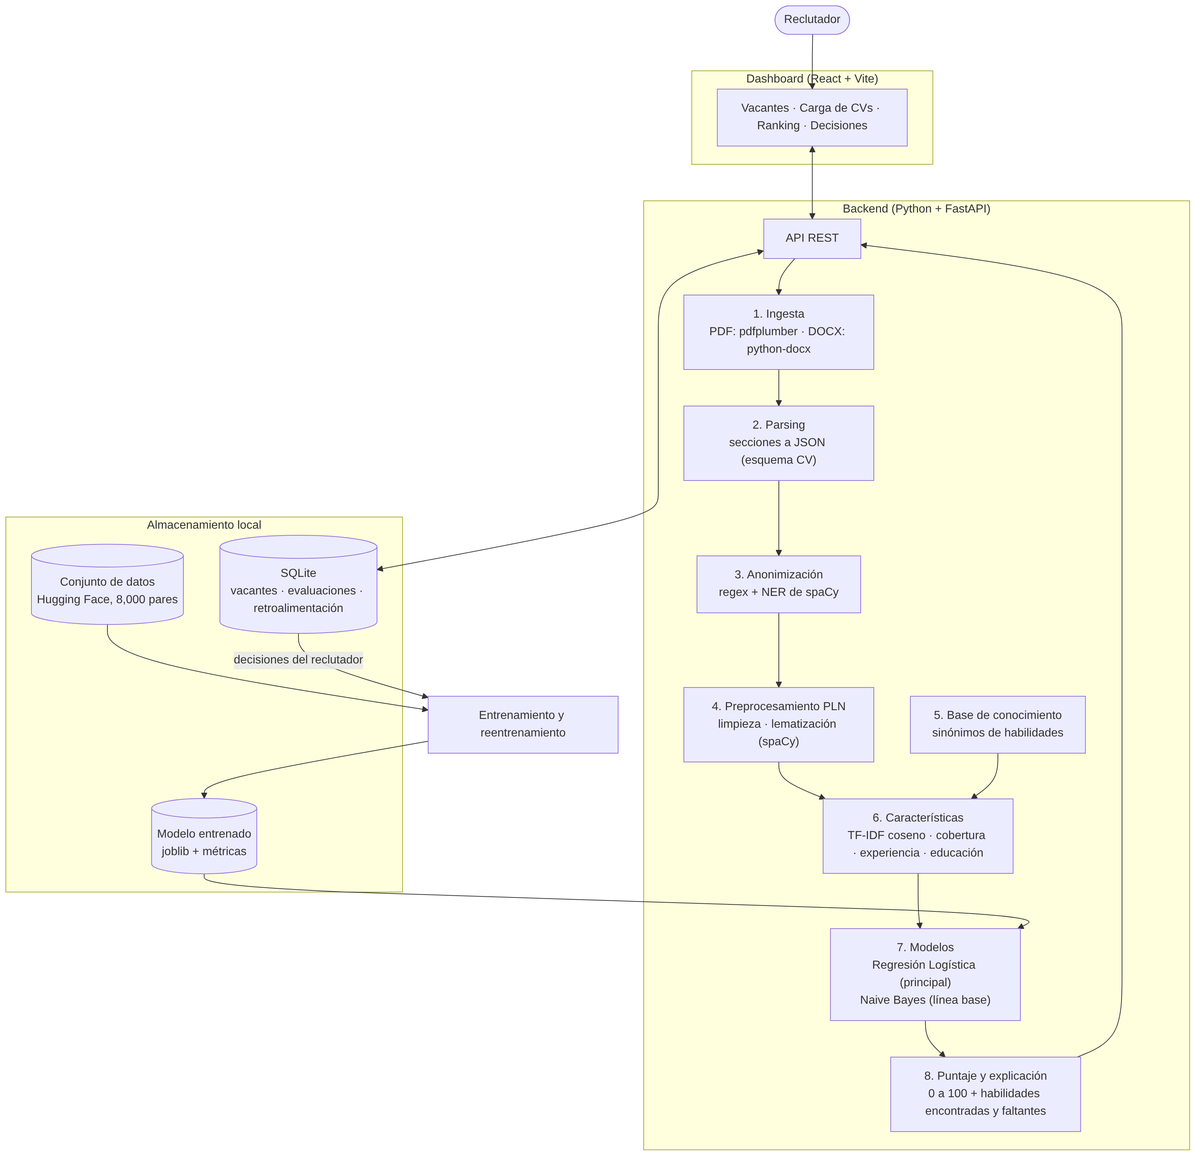
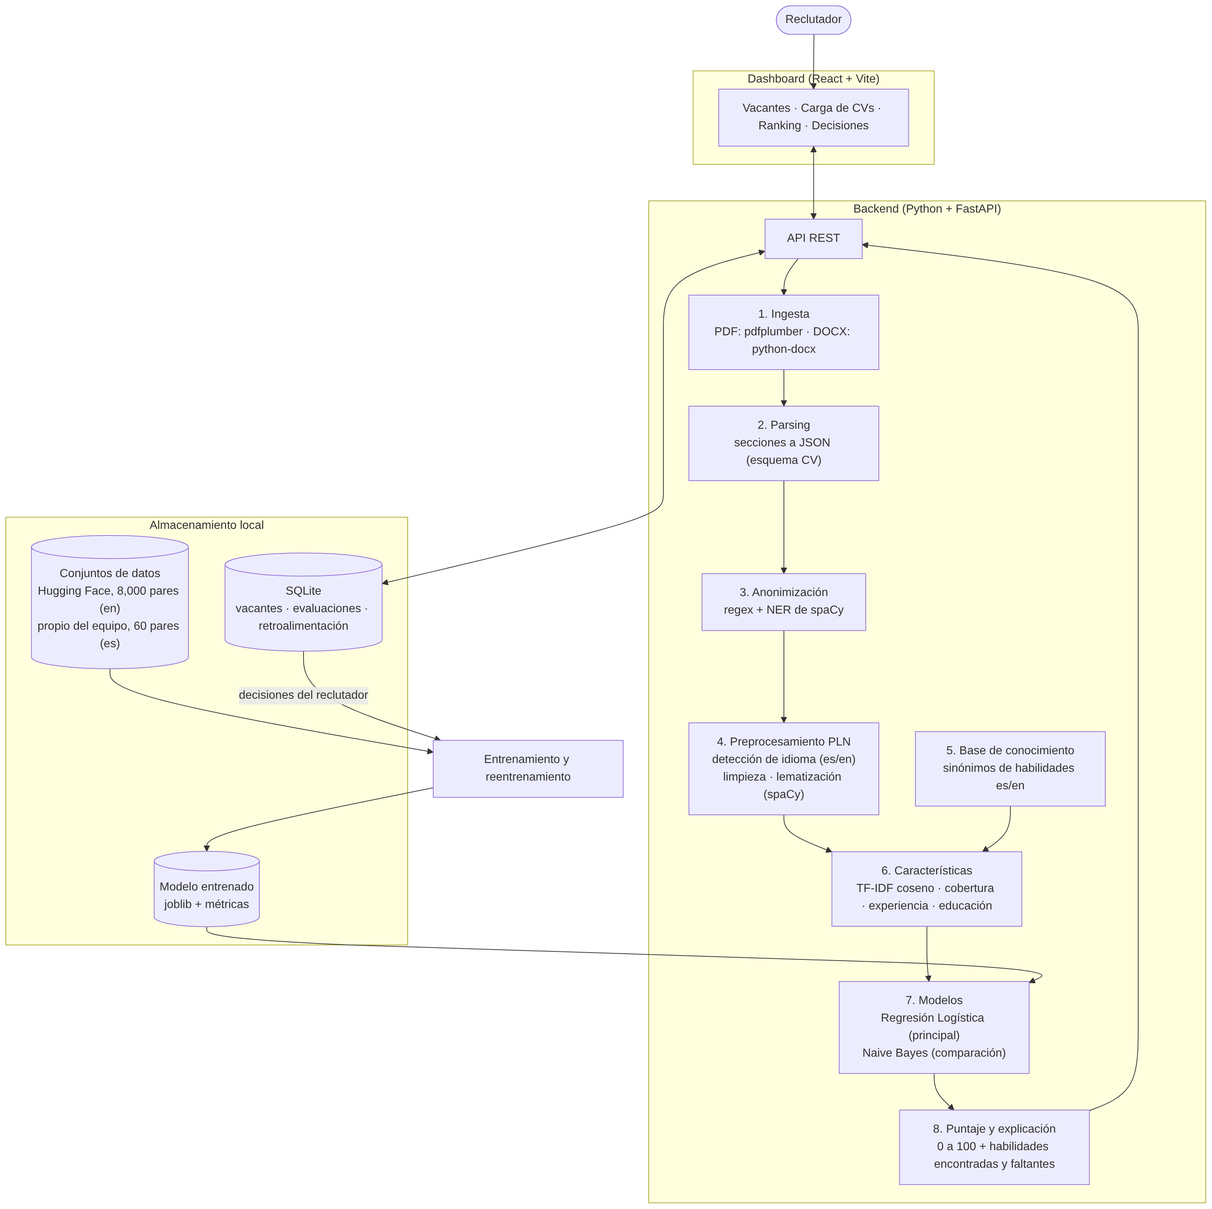
Fase 1: enfoque en español con soporte para inglés
El sistema se enfoca en CVs y vacantes en español y también acepta inglés.
Como el único conjunto de datos etiquetado público está en inglés, los modelos
usan solo características que no dependen del idioma (decisión D7) y el
desempeño en español se mide con un conjunto propio del equipo.

Agrega la detección de idioma (RF-14), la base de conocimiento bilingüe, el
modelo de spaCy en español y una prueba de su lematización. Documenta que el
reconocimiento de entidades del modelo pequeño en español no es confiable para
anonimizar.

diff --git a/tests/test_smoke.py b/tests/test_smoke.py
@@ -11,3 +11,10 @@ def test_spacy_english_model_loads():
     nlp = spacy.load("en_core_web_sm")
     doc = nlp("Jane Doe worked at Google using advanced Excel.")
     assert any(ent.label_ == "PERSON" for ent in doc.ents)
+
+
+def test_spacy_spanish_model_lemmatizes():
+    nlp = spacy.load("es_core_news_sm")
+    lemmas = [token.lemma_ for token in nlp("Trabajó cinco años como analista de datos.")]
+    assert "trabajar" in lemmas
+    assert "dato" in lemmas

diff --git a/docs/requisitos.md b/docs/requisitos.md
@@ -11,9 +11,11 @@ de una vacante, extrae su información, la compara con los requisitos del puesto
 ranking de candidatos con un puntaje de idoneidad de 0 a 100 y la explicación de ese puntaje.
 La decisión final de contratación siempre es del reclutador: el sistema prioriza, no descarta.
 
-Idioma: la interfaz y la documentación están en español. Los currículums y vacantes que el
-sistema analiza están en **inglés**, porque los datos etiquetados públicos disponibles para
-entrenar los modelos están en inglés (ver sección 6).
+Idioma: el sistema está enfocado en **español**. La interfaz, la documentación, los
+currículums y las vacantes son en español como caso principal, y los documentos en **inglés**
+también se aceptan. Como los únicos datos etiquetados públicos disponibles están en inglés, los
+modelos se entrenan con características que no dependen del idioma (sección 5), y el
+desempeño en español se mide con un conjunto propio del equipo (sección 6).
 
 ## 2. Usuarios y flujo de uso
 
@@ -42,13 +44,14 @@ Usuario principal: reclutador de Recursos Humanos.
 | RF-04 | Informar por archivo los errores de carga: formato no soportado, archivo dañado o PDF sin texto extraíble (por ejemplo, escaneado). Un error no detiene el resto del lote. | 3 | Alta |
 | RF-05 | Anonimizar cada CV antes de evaluarlo: eliminar nombre, correo, teléfono, dirección y URLs personales. | 2-4 | Alta |
 | RF-06 | Preprocesar el texto con PLN: limpieza, normalización, tokenización, eliminación de palabras vacías y lematización. | 4 | Alta |
-| RF-07 | Normalizar habilidades con una base de conocimiento de sinónimos y equivalencias (por ejemplo, "spreadsheets" y "advanced excel" se reconocen como la habilidad `excel`). | 4-6 | Alta |
+| RF-07 | Normalizar habilidades con una base de conocimiento de sinónimos y equivalencias en español e inglés (por ejemplo, "manejo de hojas de cálculo", "Excel avanzado" y "spreadsheets" se reconocen como la habilidad `excel`). | 4-6 | Alta |
 | RF-08 | Calcular para cada par CV-vacante las características de la sección 5 y un puntaje de idoneidad de 0 a 100. | 5-6 | Alta |
 | RF-09 | Explicar cada puntaje: habilidades requeridas encontradas y faltantes, años de experiencia detectados y nivel educativo detectado. | 6-7 | Alta |
 | RF-10 | Mostrar el ranking de candidatos por vacante, con ordenamiento, búsqueda y filtros por rango de puntaje, habilidades y experiencia. | 7 | Alta |
 | RF-11 | Registrar la decisión del reclutador por candidato: Apto, Posible o No apto. | 7 | Media |
 | RF-12 | Reentrenar el modelo con el conjunto base más la retroalimentación acumulada, bajo demanda, y conservar la versión anterior si la nueva tiene peores métricas. | 8 | Media |
 | RF-13 | Mostrar las métricas del modelo vigente: accuracy, precision, recall y F1. | 7-8 | Media |
+| RF-14 | Detectar el idioma de cada CV y vacante (español o inglés) y procesarlo con el modelo de PLN correspondiente. Un documento en otro idioma se rechaza con un mensaje claro. | 4 | Alta |
 
 ## 4. Requerimientos no funcionales
 
@@ -66,21 +69,24 @@ Usuario principal: reclutador de Recursos Humanos.
 ## 5. Criterios de evaluación de perfiles
 
 Cada CV se evalúa contra una vacante con cuatro características. Todas se calculan después de
-anonimizar el CV.
+anonimizar el CV y **no dependen del idioma**: cada una compara el CV con su propia vacante, y
+el resultado es un número que significa lo mismo en español o en inglés. Por eso un modelo
+entrenado con pares en inglés puede evaluar pares en español.
 
 | Característica | Cálculo | Rango |
 |---|---|---|
-| `text_similarity` | Similitud coseno entre los vectores TF-IDF del CV y de la vacante (texto preprocesado y lematizado). | 0 a 1 |
+| `text_similarity` | Similitud coseno entre los vectores TF-IDF del CV y de la vacante, con el texto preprocesado y lematizado en su idioma. | 0 a 1 |
 | `skill_coverage` | Habilidades de la vacante presentes en el CV, normalizadas con la base de conocimiento. Las deseables pesan la mitad: (requeridas encontradas + 0.5 × deseables encontradas) / (requeridas + 0.5 × deseables). Si la vacante no lista habilidades, vale 1. | 0 a 1 |
-| `experience_fit` | Años de experiencia detectados en el CV entre los años mínimos requeridos, con tope en 1. Si la vacante no indica años, vale 1. | 0 a 1 |
-| `education_fit` | 1 si el nivel educativo detectado alcanza el mínimo requerido o si la vacante no pide uno, 0.5 si es un nivel inferior, 0 si no se detecta. Niveles: bachillerato, técnico, licenciatura, maestría, doctorado. | 0, 0.5 o 1 |
+| `experience_fit` | Años de experiencia detectados en el CV ("5 años", "5 years" o periodos como "2021-2024") entre los años mínimos requeridos, con tope en 1. Si la vacante no indica años, vale 1. | 0 a 1 |
+| `education_fit` | 1 si el nivel educativo detectado alcanza el mínimo requerido o si la vacante no pide uno, 0.5 si es un nivel inferior, 0 si no se detecta. Niveles: bachillerato, técnico, licenciatura, maestría, doctorado, con sus equivalentes en inglés (high school, associate, bachelor, master, PhD). | 0, 0.5 o 1 |
 
 **Clases.** Cada par CV-vacante pertenece a una de tres clases: `Good Fit`, `Potential Fit` o
 `No Fit` (las etiquetas del conjunto de datos). En la interfaz se muestran como Apto, Posible y
 No apto.
 
 **Puntaje de idoneidad.** El modelo de Regresión Logística estima la probabilidad de cada clase
-a partir de las características anteriores y de los vectores TF-IDF. El puntaje es:
+a partir de las cuatro características anteriores. No usa las palabras del texto como
+características directas, porque esas sí dependen del idioma. El puntaje es:
 
 ```
 puntaje = 100 × ( P(Good Fit) + 0.5 × P(Potential Fit) )
@@ -89,18 +95,18 @@ puntaje = 100 × ( P(Good Fit) + 0.5 × P(Potential Fit) )
 El ranking ordena por puntaje; en empate, por `skill_coverage`. La fórmula es la
 propuesta inicial y se revisa en la fase 5 con las métricas reales.
 
-**Modelos.** Naive Bayes multinomial sobre TF-IDF funciona como línea base. La Regresión
-Logística es el modelo principal. También se compara contra una línea base sin aprendizaje que
-solo usa `text_similarity`. El modelo principal se acepta si supera a ambas líneas base en F1
-macro sobre el conjunto de prueba; la meta numérica se fija en la fase 5 al medir las líneas
-base.
+**Modelos.** La Regresión Logística es el modelo principal y Naive Bayes (gaussiano, sobre las
+mismas características) es el modelo de comparación. Ambos se comparan contra una línea base sin
+aprendizaje que solo usa `text_similarity`. El modelo elegido debe superar a la línea base en F1
+macro; la meta numérica se fija en la fase 5 al medir las líneas base. Si en la fase 5 se
+necesitan más características, se agregan solo si tampoco dependen del idioma.
 
 ## 6. Datos
 
 | Uso | Fuente | Contenido |
 |---|---|---|
 | Entrenamiento y prueba | [cnamuangtoun/resume-job-description-fit](https://huggingface.co/datasets/cnamuangtoun/resume-job-description-fit) (Hugging Face) | 8,000 pares CV-vacante en inglés: 6,241 de entrenamiento y 1,759 de prueba. Etiquetas en el entrenamiento: No Fit 3,143, Potential Fit 1,556, Good Fit 1,542. |
-| Pruebas del parser | Currículums de muestra en PDF y DOCX creados por el equipo con datos ficticios | Se preparan en la fase 2. |
+| Evaluación en español | Conjunto propio: vacantes y CVs ficticios en español, en PDF y DOCX, etiquetados por el equipo como Apto, Posible o No apto | Propuesta: 4 vacantes con 15 CVs cada una (60 pares). Se prepara en la fase 2 y también sirve para probar el parser. |
 
 Limitaciones conocidas, que se documentan en el reporte:
 
@@ -108,20 +114,23 @@ Limitaciones conocidas, que se documentan en el reporte:
   etiquetas no está documentado. Se usa con fines académicos y se cita la fuente.
 - Las clases están desbalanceadas (la mitad son No Fit), por lo que se reporta F1 macro y no
   solo accuracy.
-- Los datos están en inglés; evaluar CVs en español queda fuera del alcance.
+- El entrenamiento es en inglés. El desempeño en español se mide solo con el conjunto propio
+  de 60 pares, que es pequeño; el reporte presenta ese resultado como indicativo, no como
+  definitivo.
 
 ## 7. Medidas de rendimiento del agente
 
 Tomadas de la actividad 2.1:
 
-- Accuracy, precision, recall y F1 (macro y por clase) sobre el conjunto de prueba.
+- Accuracy, precision, recall y F1 (macro y por clase), reportadas por separado para el
+  conjunto de prueba en inglés (1,759 pares) y el conjunto propio en español.
 - Tiempo de procesamiento por CV (RNF-03).
 - Satisfacción de los reclutadores, medida en las pruebas de usabilidad (RNF-07).
 
 ## 8. Fuera de alcance
 
 - Reconocimiento óptico de caracteres (OCR) para CVs escaneados: se reportan como error (RF-04).
-- Currículums en idiomas distintos al inglés.
+- Currículums en idiomas distintos al español y al inglés.
 - Cuentas de usuario, permisos y despliegue en la nube: el sistema se ejecuta localmente para
   la demostración.
 - Integración con sistemas de RH de terceros.
@@ -131,5 +140,7 @@ Tomadas de la actividad 2.1:
 | Riesgo | Mitigación |
 |---|---|
 | Las etiquetas del conjunto de datos no reflejan criterios reales de una empresa. | Se presenta como limitación; la retroalimentación del reclutador (RF-11, RF-12) adapta el modelo a criterios propios. |
+| Las características calculadas en español se distribuyen distinto que en inglés (por ejemplo, la similitud de textos), y el modelo entrenado en inglés pierde precisión. | Se mide con el conjunto propio en español; si la diferencia es grande, se ajustan las características o se reentrena con la retroalimentación en español (RF-12). |
+| El modelo pequeño de spaCy en español reconoce mal los nombres de personas (en una prueba marcó una empresa como persona). | La anonimización se basa en patrones (correo, teléfono, URLs) y en la estructura del CV (el nombre suele estar en el encabezado), con el reconocimiento de entidades solo como apoyo. Se mide en la fase 2. |
 | Los CVs tienen formatos muy variados y el parser no detecta todas las secciones. | Si no se detectan secciones, el CV completo se trata como un solo bloque y se evalúa igual. |
 | El equipo va atrasado respecto al cronograma original (fases 2 y 3 vencían en septiembre). | Se propone recuperar las fases 1 a 3 al regresar del periodo de exámenes de medio curso (pendiente de confirmar con el equipo); el reporte de avance 3.2 presenta el cronograma ajustado. |

diff --git a/docs/arquitectura.md b/docs/arquitectura.md
@@ -26,17 +26,17 @@ flowchart TD
         ING["1. Ingesta<br/>PDF: pdfplumber · DOCX: python-docx"]
         PAR["2. Parsing<br/>secciones a JSON (esquema CV)"]
         ANO["3. Anonimización<br/>regex + NER de spaCy"]
-        PLN["4. Preprocesamiento PLN<br/>limpieza · lematización (spaCy)"]
-        KB["5. Base de conocimiento<br/>sinónimos de habilidades"]
+        PLN["4. Preprocesamiento PLN<br/>detección de idioma (es/en)<br/>limpieza · lematización (spaCy)"]
+        KB["5. Base de conocimiento<br/>sinónimos de habilidades es/en"]
         FEAT["6. Características<br/>TF-IDF coseno · cobertura · experiencia · educación"]
-        ML["7. Modelos<br/>Regresión Logística (principal)<br/>Naive Bayes (línea base)"]
+        ML["7. Modelos<br/>Regresión Logística (principal)<br/>Naive Bayes (comparación)"]
         SC["8. Puntaje y explicación<br/>0 a 100 + habilidades encontradas y faltantes"]
     end
 
     subgraph ST["Almacenamiento local"]
         DB[("SQLite<br/>vacantes · evaluaciones · retroalimentación")]
         MOD[("Modelo entrenado<br/>joblib + métricas")]
-        DS[("Conjunto de datos<br/>Hugging Face, 8,000 pares")]
+        DS[("Conjuntos de datos<br/>Hugging Face, 8,000 pares (en)<br/>propio del equipo, 60 pares (es)")]
     end
 
     REC --> UI
@@ -71,10 +71,10 @@ sistema:
 | 1 | Ingesta | Archivo PDF o DOCX | Texto plano o error por archivo | 3 | Raúl |
 | 2 | Parsing | Texto plano | `CV` en JSON con secciones | 3 | Raúl |
 | 3 | Anonimización | `CV` | `CV` sin datos personales | 2, 4 | Eduardo, Oziel |
-| 4 | Preprocesamiento PLN | Texto | Tokens lematizados sin palabras vacías | 4 | Oziel |
-| 5 | Base de conocimiento | Habilidades en texto libre | Habilidades normalizadas | 4, 6 | Oziel |
+| 4 | Preprocesamiento PLN | Texto | Idioma detectado (es/en) y tokens lematizados sin palabras vacías | 4 | Oziel |
+| 5 | Base de conocimiento | Habilidades en texto libre, en español o inglés | Habilidades normalizadas (mismo identificador en ambos idiomas) | 4, 6 | Oziel |
 | 6 | Características | `CV` + `Vacancy` | Las cuatro características de requisitos.md, sección 5 | 5, 6 | Oziel |
-| 7 | Modelos | Características + TF-IDF | Probabilidad por clase | 5 | Oziel |
+| 7 | Modelos | Las cuatro características | Probabilidad por clase | 5 | Oziel |
 | 8 | Puntaje y explicación | Probabilidades + características | `Evaluation` | 6 | Oziel |
 | 9 | API REST | Peticiones HTTP | JSON | 6 | Raúl |
 | 10 | Dashboard | API REST | Interfaz web | 7 | Aldo |
@@ -138,7 +138,7 @@ Versiones verificadas al instalar el proyecto el 2 de octubre de 2026 con Python
 | Lenguaje | Python | 3.12 o superior | Ecosistema estándar de PLN y aprendizaje automático. |
 | Texto de PDF | pdfplumber | 0.11.10 | Extrae texto respetando el orden de las líneas; licencia MIT. |
 | Texto de DOCX | python-docx | 1.x | Lee párrafos y tablas de Word; licencia MIT. |
-| PLN | spaCy + `en_core_web_sm` | 3.8.16 / 3.8.0 | Lematización y reconocimiento de entidades (personas, organizaciones, fechas) para anonimizar. |
+| PLN | spaCy + `es_core_news_sm` y `en_core_web_sm` | 3.8.16 / 3.8.0 | Lematización en ambos idiomas y listas de palabras vacías. El reconocimiento de entidades apoya la anonimización; en español el modelo pequeño es poco confiable para nombres, por lo que no se usa como único mecanismo. |
 | Modelos | scikit-learn | 1.9.1 | `TfidfVectorizer`, `MultinomialNB`, `LogisticRegression` y métricas en una sola librería. |
 | Datos | pandas, huggingface-hub | 3.0.6 | Descarga y manejo del conjunto de datos. |
 | Contratos | Pydantic | 2.13.5 | Validación y esquema JSON compartido entre backend y dashboard. |
@@ -173,9 +173,10 @@ tests/                 pruebas
 
 | # | Decisión | Motivo | Alternativa descartada |
 |---|---|---|---|
-| D1 | CVs y vacantes en inglés; interfaz y documentación en español. | El único conjunto de datos público etiquetado encontrado está en inglés. | CVs en español con datos sintéticos o traducidos: etiquetas menos confiables y más trabajo. |
+| D1 | Sistema enfocado en español, con inglés también soportado. El entrenamiento usa el conjunto en inglés y el desempeño en español se mide con un conjunto propio. | Los usuarios y el curso son de México, pero el único conjunto de datos público etiquetado encontrado está en inglés. | Solo inglés: no corresponde al contexto del proyecto. Traducir los CVs al inglés: requiere un modelo de traducción pesado o un servicio en la nube que rompe la privacidad (RNF-01). |
 | D2 | Clasificar pares CV-vacante (Good, Potential, No Fit) en lugar de clasificar CVs por categoría. | Corresponde directamente al puntaje de idoneidad y hay etiquetas para entrenarlo. | Clasificar por área profesional: no responde si el candidato encaja en la vacante. |
-| D3 | Base de conocimiento de sinónimos de habilidades además de TF-IDF. | TF-IDF solo compara palabras y no reconoce equivalencias como "spreadsheets" y "excel". | Embeddings con redes neuronales: fuera del enfoque de aprendizaje automático tradicional definido en la actividad 1.3. |
+| D3 | Base de conocimiento bilingüe de sinónimos de habilidades además de TF-IDF. | TF-IDF solo compara palabras y no reconoce equivalencias como "hojas de cálculo" y "Excel", ni entre idiomas. | Embeddings con redes neuronales: fuera del enfoque de aprendizaje automático tradicional definido en la actividad 1.3. |
 | D4 | Backend FastAPI y dashboard React separados. | Contrato JSON claro entre el motor y la interfaz; cada parte se desarrolla en paralelo. | Streamlit: más rápido de construir, pero con poco control sobre la interfaz. |
 | D5 | Todo se ejecuta localmente con SQLite. | Privacidad de los CVs (RNF-01) y cero costo de infraestructura. | Base de datos o despliegue en la nube: fuera de alcance. |
 | D6 | Repositorio de código separado del repositorio del curso. | Lo comparte todo el equipo en GitHub. | Código dentro de la carpeta del curso. |
+| D7 | Los modelos usan solo características que no dependen del idioma, no las palabras del texto. | Permite entrenar con pares en inglés y evaluar pares en español con el mismo modelo. | Usar también los vectores TF-IDF como características: posiblemente más preciso en inglés, pero inútil en español. |

diff --git a/HANDOFF.md b/HANDOFF.md
@@ -15,14 +15,18 @@ de Aldo entre fases:
 
 - Repositorio de código en `~/Work/projects/cv-screening`, separado del repo del curso.
 - Stack: FastAPI + React/Vite.
-- CVs analizados en inglés; interfaz y documentación en español.
+- Enfoque en español con inglés también soportado ("ambos"). Entrenamiento con el conjunto en
+  inglés usando solo características independientes del idioma (D7); desempeño en español
+  medido con un conjunto propio de 60 pares ficticios etiquetados por el equipo (propuesta).
+- Repositorio público en la cuenta de GitHub de Aldo (Aselori).
+- No descargar `es_core_news_md` (Aldo rechazó la descarga); se usa `es_core_news_sm`.
 - Se construyen aquí las fases 1 a 3, fase por fase.
 
 ## Estado
 
 - Rama `main`: commit inicial con la estructura (pyproject, mise, pytest, ruff, prueba básica).
 - Rama `phase-1-requirements`: fase 1 terminada, pendiente de revisión.
-  - `docs/requisitos.md`: RF-01 a RF-13, RNF-01 a RNF-08, criterios de evaluación (4
+  - `docs/requisitos.md`: RF-01 a RF-14, RNF-01 a RNF-08, criterios de evaluación (4
     características y fórmula del puntaje), datos, métricas, alcance, riesgos.
   - `docs/arquitectura.md`: diagrama Mermaid, componentes del agente, módulos y responsables,
     contratos de datos, API propuesta, librerías con versiones, estructura objetivo,
@@ -32,10 +36,13 @@ de Aldo entre fases:
 
 ## Verificado
 
-- Las dependencias se instalan y funcionan en Python 3.14.7 (spaCy 3.8.16 con
+- Las dependencias se instalan y funcionan en Python 3.14.7 (spaCy 3.8.16 con `es_core_news_sm` y
   `en_core_web_sm` 3.8.0, scikit-learn 1.9.1, pdfplumber 0.11.10, python-docx 1.2.0,
   FastAPI 0.142.2, Pydantic 2.13.5, pandas 3.0.6).
-- `ruff check`, `ruff format --check` y `pytest` (2 pruebas) pasan.
+- `ruff check`, `ruff format --check` y `pytest` (3 pruebas) pasan.
+- `es_core_news_sm` 3.8.0 lematiza bien en español, pero su NER es poco confiable: en una frase
+  de prueba marcó el nombre de la persona como MISC y "Cemex" como persona. La anonimización
+  no puede depender solo del NER.
 - El conjunto de datos tiene 6,241 + 1,759 pares y la distribución de etiquetas indicada en
   requisitos.md (consultado en la API de Hugging Face). En una muestra de 40 vacantes, 33
   mencionan años de experiencia y 26 un grado académico.
@@ -44,22 +51,22 @@ de Aldo entre fases:
 
 - Instalación en Windows y en Python 3.12 o 3.13.
 - Licencia y origen de las etiquetas del conjunto de datos (no están declarados).
-- Que el equipo y la profesora acepten CVs en inglés.
-- No hay repositorio remoto en GitHub todavía; nada se ha subido.
+- Que el equipo acepte el enfoque bilingüe y el conjunto propio en español de 60 pares.
+- Que las características calculadas en español se comporten como en inglés (se mide en fase 5).
 
 ## Pendiente de Aldo
 
 - Revisar la fase 1 y aprobar o pedir cambios.
-- Decidir si se crea el repositorio en GitHub (cuenta propia u organización) y a quién se
-  invita.
+- Invitar a los compañeros al repositorio en GitHub.
 - Confirmar con el equipo el estado real de las fases 2 y 3 y que aceptan el plan.
 
 ## Siguientes pasos
 
 1. Tras la aprobación: merge de `phase-1-requirements` a `main` (con autorización de Aldo).
 2. Fase 2 en la rama `phase-2-dataset`: `schemas.py` (Pydantic: `CV`, `Vacancy`,
-   `Evaluation`), script de descarga a `data/raw/`, anonimización a `data/processed/`,
-   `data/README.md` con fuente y limitaciones, CVs de muestra ficticios en `data/samples/`,
+   `Evaluation`), script de descarga a `data/raw/`, anonimización (patrones + estructura +
+   NER como apoyo) a `data/processed/`, `data/README.md` con fuente y limitaciones, conjunto
+   propio en español (vacantes y CVs ficticios en PDF y DOCX, etiquetas) en `data/samples/`,
    pruebas.
 3. Fase 3 en la rama `phase-3-parsing`: `ingestion.py` y `parsing.py`, CLI, pruebas con
    las muestras.

diff --git a/AGENTS.md b/AGENTS.md
@@ -16,18 +16,21 @@ Instrucciones para asistentes de código (Codex, Claude Code y similares) en est
 
 Ver `docs/arquitectura.md`, sección 8. En resumen:
 
-- Los CVs y vacantes analizados están en inglés; la interfaz, documentación, comentarios y
-  mensajes de commit están en español. Los identificadores (variables, funciones, archivos,
-  campos JSON, ramas) están en inglés.
+- Enfoque en español: CVs, vacantes, interfaz, documentación, comentarios y mensajes de commit
+  en español. Los CVs y vacantes en inglés también se aceptan. Los identificadores (variables,
+  funciones, archivos, campos JSON, ramas) están en inglés.
 - Clasificación de pares CV-vacante en `Good Fit`, `Potential Fit` y `No Fit`, con el conjunto
   de datos `cnamuangtoun/resume-job-description-fit` de Hugging Face.
-- Regresión Logística como modelo principal, Naive Bayes y similitud coseno como líneas base.
+- Los modelos usan solo las cuatro características que no dependen del idioma (D7):
+  Regresión Logística como principal, Naive Bayes como comparación y similitud coseno como
+  línea base. Se entrenan en inglés y se miden también con un conjunto propio en español.
 - Backend Python + FastAPI, dashboard React + Vite + TypeScript, SQLite local.
 
 ## Entorno y comandos
 
 - Python 3.12 o superior (fijado en 3.14 con mise). Entorno virtual en `.venv/`.
-- Instalación: `pip install -e ".[dev]"` y `python -m spacy download en_core_web_sm`.
+- Instalación: `pip install -e ".[dev]"`, `python -m spacy download es_core_news_sm` y
+  `python -m spacy download en_core_web_sm`.
 - Antes de cada commit: `ruff check .`, `ruff format --check .` y `pytest`.
 
 ## Reglas

diff --git a/README.md b/README.md
@@ -3,9 +3,9 @@
 Proyecto del **Laboratorio de Temas Selectos de Sistemas Inteligentes** (LBTSSI), FIME, UANL.
 Semestre agosto - diciembre 2026. Docente: Raquel Martínez Martínez.
 
-Sistema inteligente (agente basado en aprendizaje) que analiza currículums en PDF o DOCX, los
-compara con los requisitos de una vacante y genera un puntaje de idoneidad y un ranking de
-candidatos. Usa PLN (spaCy), TF-IDF, Naive Bayes y Regresión Logística, y aprende de la
+Sistema inteligente (agente basado en aprendizaje) que analiza currículums en PDF o DOCX, en
+español o inglés, los compara con los requisitos de una vacante y genera un puntaje de
+idoneidad y un ranking de candidatos. Usa PLN (spaCy), TF-IDF, Naive Bayes y Regresión Logística, y aprende de la
 retroalimentación de los reclutadores.
 
 ## Equipo
@@ -35,6 +35,7 @@ Linux o macOS:
 python3 -m venv .venv
 source .venv/bin/activate
 pip install -e ".[dev]"
+python -m spacy download es_core_news_sm
 python -m spacy download en_core_web_sm
 ```
 
@@ -44,6 +45,7 @@ Windows (PowerShell):
 py -m venv .venv
 .venv\Scripts\Activate.ps1
 pip install -e ".[dev]"
+python -m spacy download es_core_news_sm
 python -m spacy download en_core_web_sm
 ```
 
